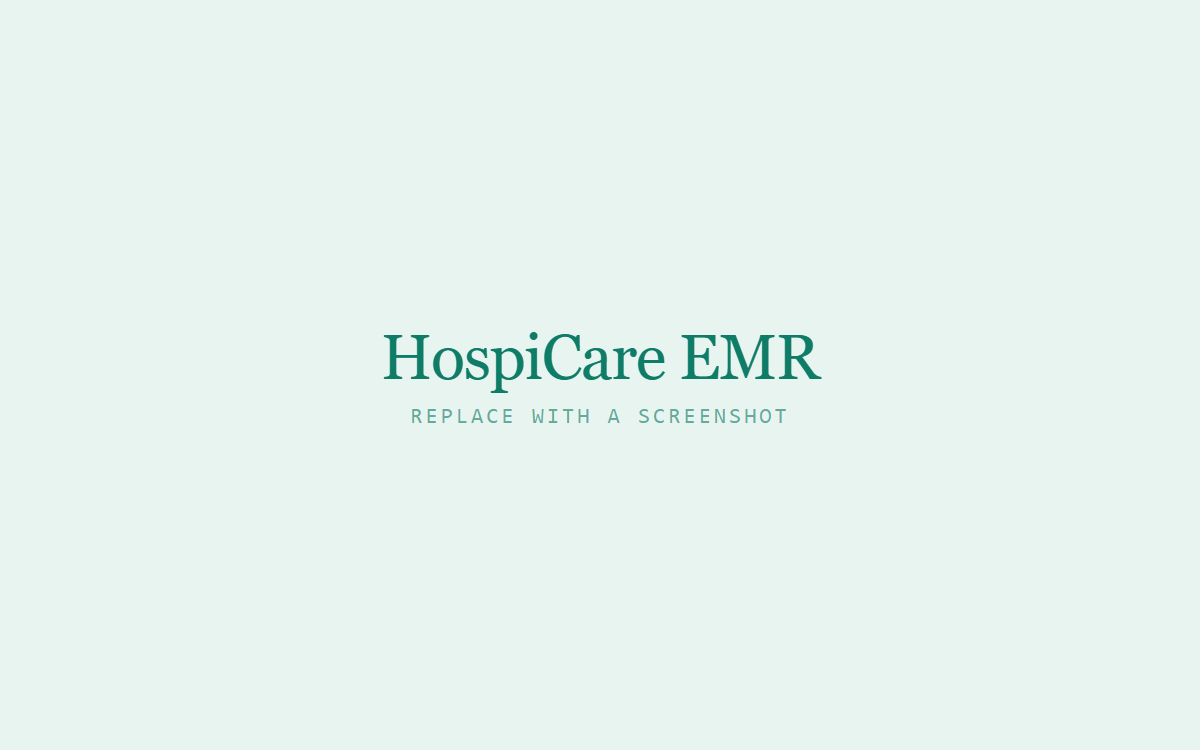
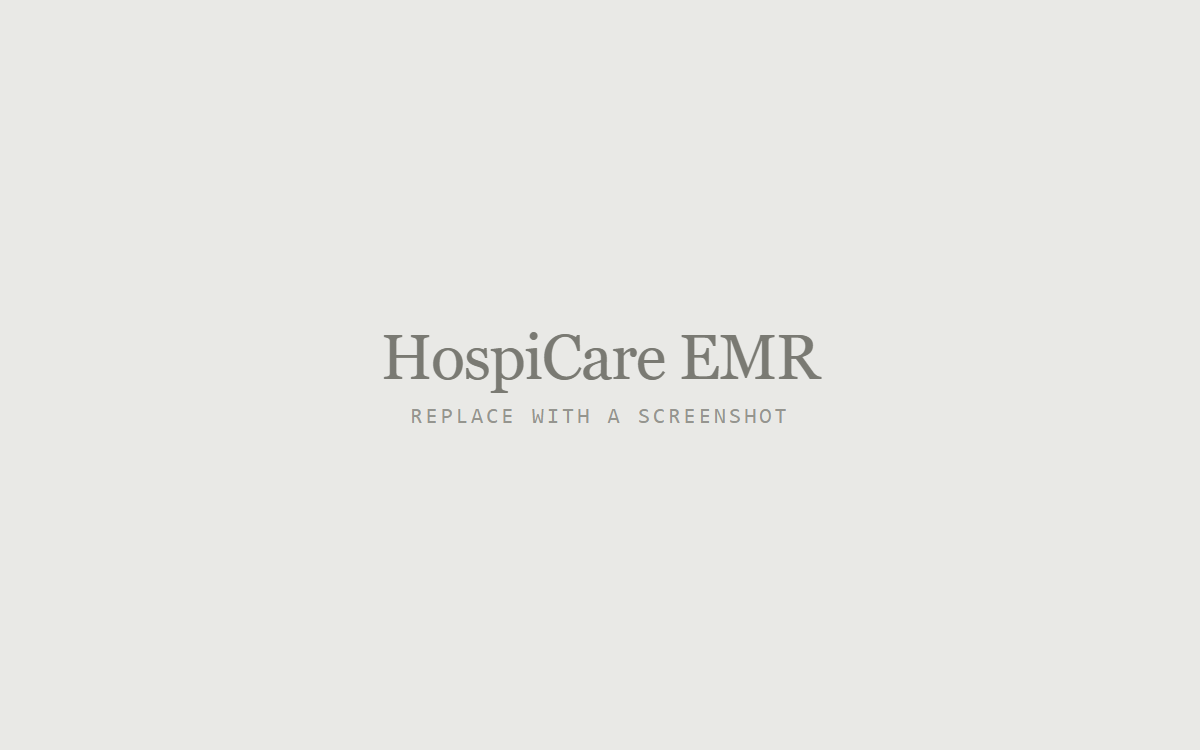
Add switchable colour palettes and a certificates section
Five palettes (pine, cobalt, ochre, clay, carbon) defined as
[data-palette] blocks in globals.css. Switch with the PALETTE constant
in layout.tsx; unused ones can be deleted once one is chosen.

Every palette was checked in both themes before rendering — all 10
combinations pass WCAG AA on every colour pair the UI actually uses.

Certificates render only when the array in profile.ts is non-empty, so
the section stays hidden until there is something to list.

Placeholder images regenerated in neutral grey so they no longer bias
the palette comparison.

Changed region(s): [[0.3083, 0.4293, 0.6783, 0.5213], [0.555, 0.552, 0.6475, 0.5827]]

diff --git a/src/app/globals.css b/src/app/globals.css
@@ -37,6 +37,29 @@
 }
 
 .dark {
+  --shadow-raise: 0 1px 2px rgb(0 0 0 / 0.4), 0 8px 24px -10px rgb(0 0 0 / 0.6);
+  --shadow-lift: 0 2px 4px rgb(0 0 0 / 0.45), 0 16px 40px -12px rgb(0 0 0 / 0.7);
+}
+
+/* ---------------------------------------------------------------------------
+   Palettes. Switch by setting data-palette on <html> in layout.tsx.
+   Every pair used in the UI is verified at WCAG AA in both themes.
+   Once a palette is chosen the others can be deleted.
+   --------------------------------------------------------------------------- */
+
+/* Pine — warm paper, deep teal (current) */
+[data-palette="pine"] {
+  --color-paper: #faf9f6;
+  --color-surface: #ffffff;
+  --color-ink: #1a1915;
+  --color-muted: #6b6a60;
+  --color-line: #e6e3db;
+  --color-accent: #0e7c66;
+  --color-accent-strong: #0a6252;
+  --color-accent-soft: #e8f4f0;
+  --color-on-accent: #ffffff;
+}
+.dark[data-palette="pine"] {
   --color-paper: #121210;
   --color-surface: #1b1a17;
   --color-ink: #f2f0ea;
@@ -46,9 +69,104 @@
   --color-accent-strong: #5bd3b6;
   --color-accent-soft: #17302a;
   --color-on-accent: #07211b;
-  --shadow-raise: 0 1px 2px rgb(0 0 0 / 0.4), 0 8px 24px -10px rgb(0 0 0 / 0.6);
-  --shadow-lift: 0 2px 4px rgb(0 0 0 / 0.45), 0 16px 40px -12px rgb(0 0 0 / 0.7);
 }
+
+/* Cobalt — cool neutral, deep blue */
+[data-palette="cobalt"] {
+  --color-paper: #f8f9fb;
+  --color-surface: #ffffff;
+  --color-ink: #14181f;
+  --color-muted: #5b6673;
+  --color-line: #e2e6ec;
+  --color-accent: #1d4ed8;
+  --color-accent-strong: #1e3a8a;
+  --color-accent-soft: #e6edfd;
+  --color-on-accent: #ffffff;
+}
+.dark[data-palette="cobalt"] {
+  --color-paper: #0d1016;
+  --color-surface: #161a22;
+  --color-ink: #eef1f6;
+  --color-muted: #939bab;
+  --color-line: #272d38;
+  --color-accent: #6c9cff;
+  --color-accent-strong: #93b4ff;
+  --color-accent-soft: #16203a;
+  --color-on-accent: #05102b;
+}
+
+/* Ochre — warm paper, burnt amber */
+[data-palette="ochre"] {
+  --color-paper: #faf8f4;
+  --color-surface: #ffffff;
+  --color-ink: #1c1813;
+  --color-muted: #665f51;
+  --color-line: #e8e2d6;
+  --color-accent: #a8530a;
+  --color-accent-strong: #8a4208;
+  --color-accent-soft: #fdf0e3;
+  --color-on-accent: #ffffff;
+}
+.dark[data-palette="ochre"] {
+  --color-paper: #14120f;
+  --color-surface: #1d1a16;
+  --color-ink: #f3efe8;
+  --color-muted: #9c9484;
+  --color-line: #302b24;
+  --color-accent: #f0a13d;
+  --color-accent-strong: #f7bb6b;
+  --color-accent-soft: #33230f;
+  --color-on-accent: #1f1403;
+}
+
+/* Clay — beige, terracotta */
+[data-palette="clay"] {
+  --color-paper: #faf7f3;
+  --color-surface: #ffffff;
+  --color-ink: #1f1815;
+  --color-muted: #6a5e54;
+  --color-line: #e9e0d6;
+  --color-accent: #9a3412;
+  --color-accent-strong: #7c2d12;
+  --color-accent-soft: #fbeae2;
+  --color-on-accent: #ffffff;
+}
+.dark[data-palette="clay"] {
+  --color-paper: #15110f;
+  --color-surface: #1f1a17;
+  --color-ink: #f4efe9;
+  --color-muted: #a0938a;
+  --color-line: #322a25;
+  --color-accent: #f0845c;
+  --color-accent-strong: #f7a184;
+  --color-accent-soft: #351e16;
+  --color-on-accent: #240d05;
+}
+
+/* Carbon — near-black surfaces, electric mint (dark by default) */
+[data-palette="carbon"] {
+  --color-paper: #f7f8f8;
+  --color-surface: #ffffff;
+  --color-ink: #111517;
+  --color-muted: #5c6467;
+  --color-line: #e3e7e8;
+  --color-accent: #0f766e;
+  --color-accent-strong: #115e59;
+  --color-accent-soft: #e3f3f1;
+  --color-on-accent: #ffffff;
+}
+.dark[data-palette="carbon"] {
+  --color-paper: #0a0c0d;
+  --color-surface: #141719;
+  --color-ink: #eef2f3;
+  --color-muted: #8f989c;
+  --color-line: #252a2d;
+  --color-accent: #2ee6a8;
+  --color-accent-strong: #6df0c4;
+  --color-accent-soft: #0e2a22;
+  --color-on-accent: #022019;
+}
+
 
 html {
   scroll-behavior: smooth;

diff --git a/src/components/Certificates.tsx b/src/components/Certificates.tsx
@@ -1,0 +1,64 @@
+import Image from "next/image";
+import { ArrowUpRight, Award } from "lucide-react";
+import Reveal from "./ui/Reveal";
+import { certificates } from "@/content/profile";
+
+/** Renders nothing until there is at least one certificate to show. */
+export default function Certificates() {
+  if (certificates.length === 0) return null;
+
+  return (
+    <div className="mt-16 lg:mt-20">
+      <h3 className="mb-8 font-mono text-[11px] uppercase tracking-[0.16em] text-muted">
+        Certifications
+      </h3>
+
+      <ul className="grid grid-cols-1 gap-4 sm:grid-cols-2 lg:grid-cols-3">
+        {certificates.map((c, i) => (
+          <Reveal key={`${c.name}-${i}`} delay={i * 50}>
+            <li className="flex h-full flex-col overflow-hidden rounded-card bg-surface shadow-raise">
+              {c.image ? (
+                <div className="relative aspect-4/3 border-b border-line bg-accent-soft">
+                  <Image
+                    src={c.image}
+                    alt={`${c.name} certificate`}
+                    fill
+                    sizes="(max-width: 640px) 100vw, (max-width: 1024px) 50vw, 30vw"
+                    className="object-cover object-top"
+                  />
+                </div>
+              ) : null}
+
+              <div className="flex flex-1 flex-col p-5">
+                <div className="flex items-start gap-3">
+                  <Award size={16} className="mt-0.5 shrink-0 text-accent" />
+                  <div className="min-w-0">
+                    <p className="text-sm font-semibold leading-snug">{c.name}</p>
+                    <p className="mt-1 text-sm text-accent">{c.issuer}</p>
+                  </div>
+                </div>
+
+                <p className="mt-3 font-mono text-[11px] uppercase tracking-[0.14em] text-muted">
+                  {c.date}
+                  {c.credentialId ? ` · ${c.credentialId}` : ""}
+                </p>
+
+                {c.url ? (
+                  <a
+                    href={c.url}
+                    target="_blank"
+                    rel="noreferrer noopener"
+                    className="mt-auto inline-flex h-11 items-center gap-1.5 pt-2 text-sm font-medium text-accent transition-opacity duration-150 hover:opacity-75"
+                  >
+                    Verify
+                    <ArrowUpRight size={14} />
+                  </a>
+                ) : null}
+              </div>
+            </li>
+          </Reveal>
+        ))}
+      </ul>
+    </div>
+  );
+}

diff --git a/src/content/profile.ts b/src/content/profile.ts
@@ -25,6 +25,15 @@ export type Project = {
   featured?: boolean;
 };
 
+export type Certificate = {
+  name: string;
+  issuer: string;
+  date: string;          // "Mar 2026" or "2025"
+  credentialId?: string;
+  url?: string;          // verification link
+  image?: string;        // scan/screenshot in /public/certificates/
+};
+
 export type TimelineEntry = {
   kind: "work" | "education";
   role: string;
@@ -167,6 +176,21 @@ export const timeline: TimelineEntry[] = [
     period: "TODO: Year",
     summary: "TODO: subjects and grades, if you want them here.",
   },
+];
+
+/**
+ * Certifications and courses. Renders only when this array has entries,
+ * so it can stay empty until there is something worth listing.
+ */
+export const certificates: Certificate[] = [
+  // {
+  //   name: "AWS Certified Cloud Practitioner",
+  //   issuer: "Amazon Web Services",
+  //   date: "TODO: Month Year",
+  //   credentialId: "TODO",
+  //   url: "https://…",
+  //   image: "/certificates/aws-ccp.png",
+  // },
 ];
 
 export const contact = {

diff --git a/src/app/layout.tsx b/src/app/layout.tsx
@@ -34,6 +34,9 @@ export const metadata: Metadata = {
   },
 };
 
+/** Active colour palette — see the [data-palette] blocks in globals.css. */
+const PALETTE = "pine";
+
 /**
  * Applies the stored theme before first paint so dark-mode visitors
  * never see a flash of the light background.
@@ -51,6 +54,7 @@ export default function RootLayout({ children }: LayoutProps<"/">) {
   return (
     <html
       lang="en"
+      data-palette={PALETTE}
       className={`${inter.variable} ${display.variable} h-full antialiased`}
       suppressHydrationWarning
     >

diff --git a/src/components/Timeline.tsx b/src/components/Timeline.tsx
@@ -5,6 +5,7 @@ import { Briefcase, ChevronDown, GraduationCap, TrendingUp } from "lucide-react"
 import Section from "./ui/Section";
 import Reveal from "./ui/Reveal";
 import Pill from "./ui/Pill";
+import Certificates from "./Certificates";
 import { timeline, type TimelineEntry } from "@/content/profile";
 
 function Entry({ entry, index }: { entry: TimelineEntry; index: number }) {
@@ -137,6 +138,8 @@ export default function Timeline() {
           ) : null,
         )}
       </div>
+
+      <Certificates />
     </Section>
   );
 }
